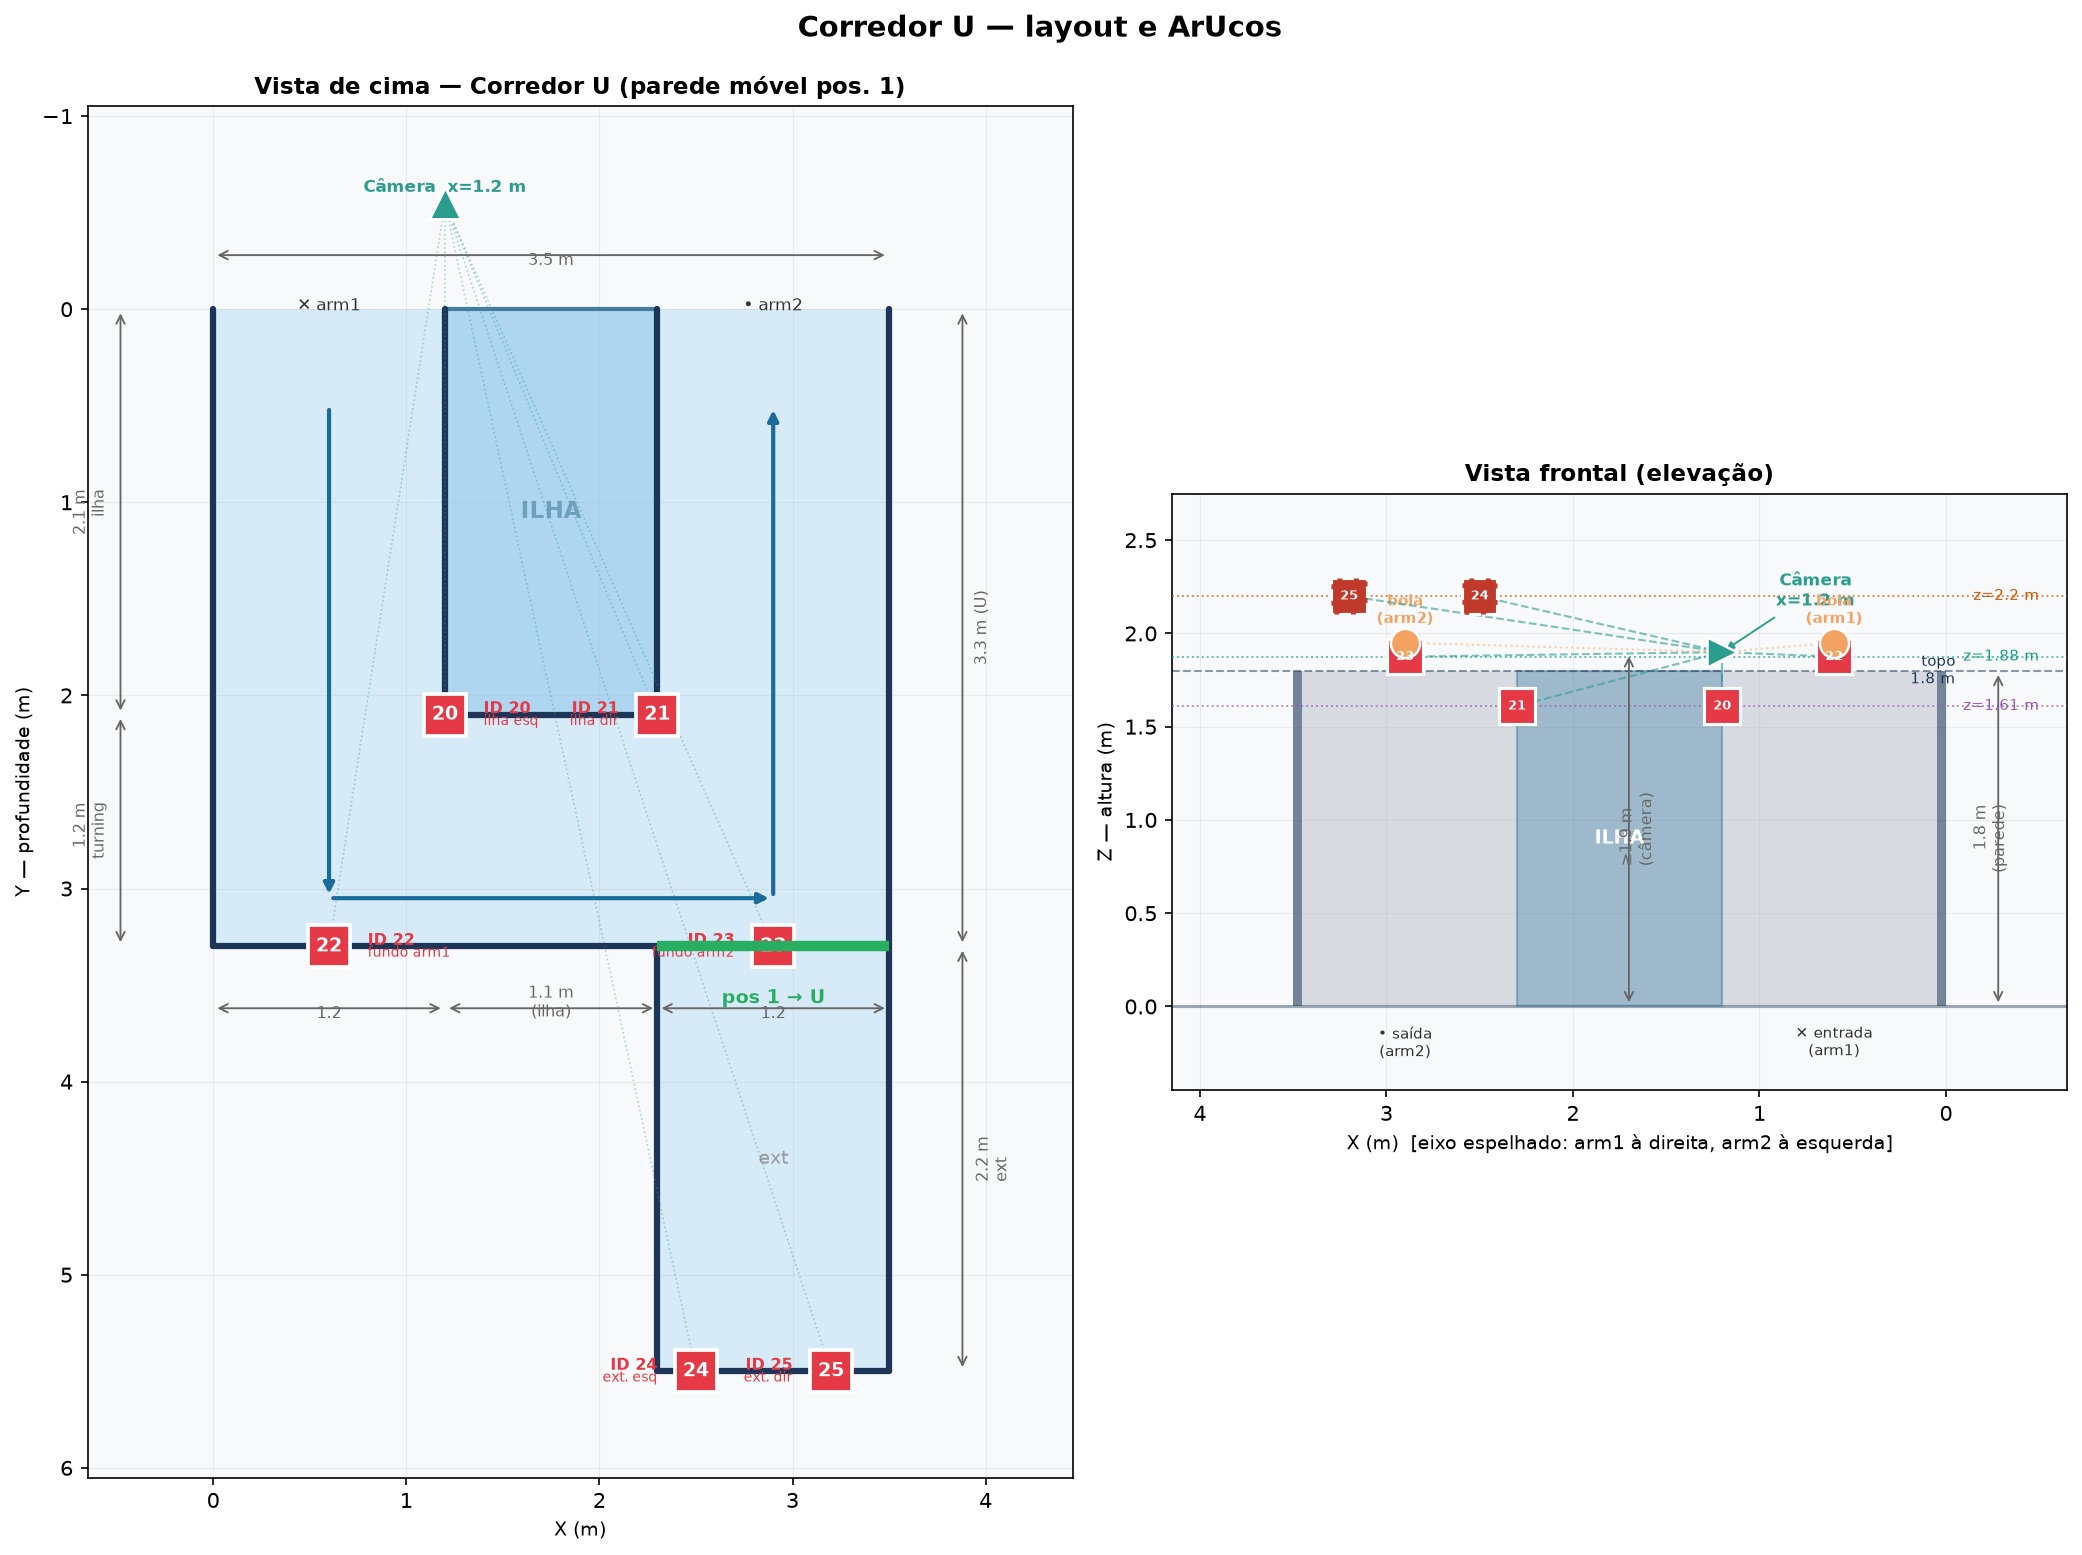
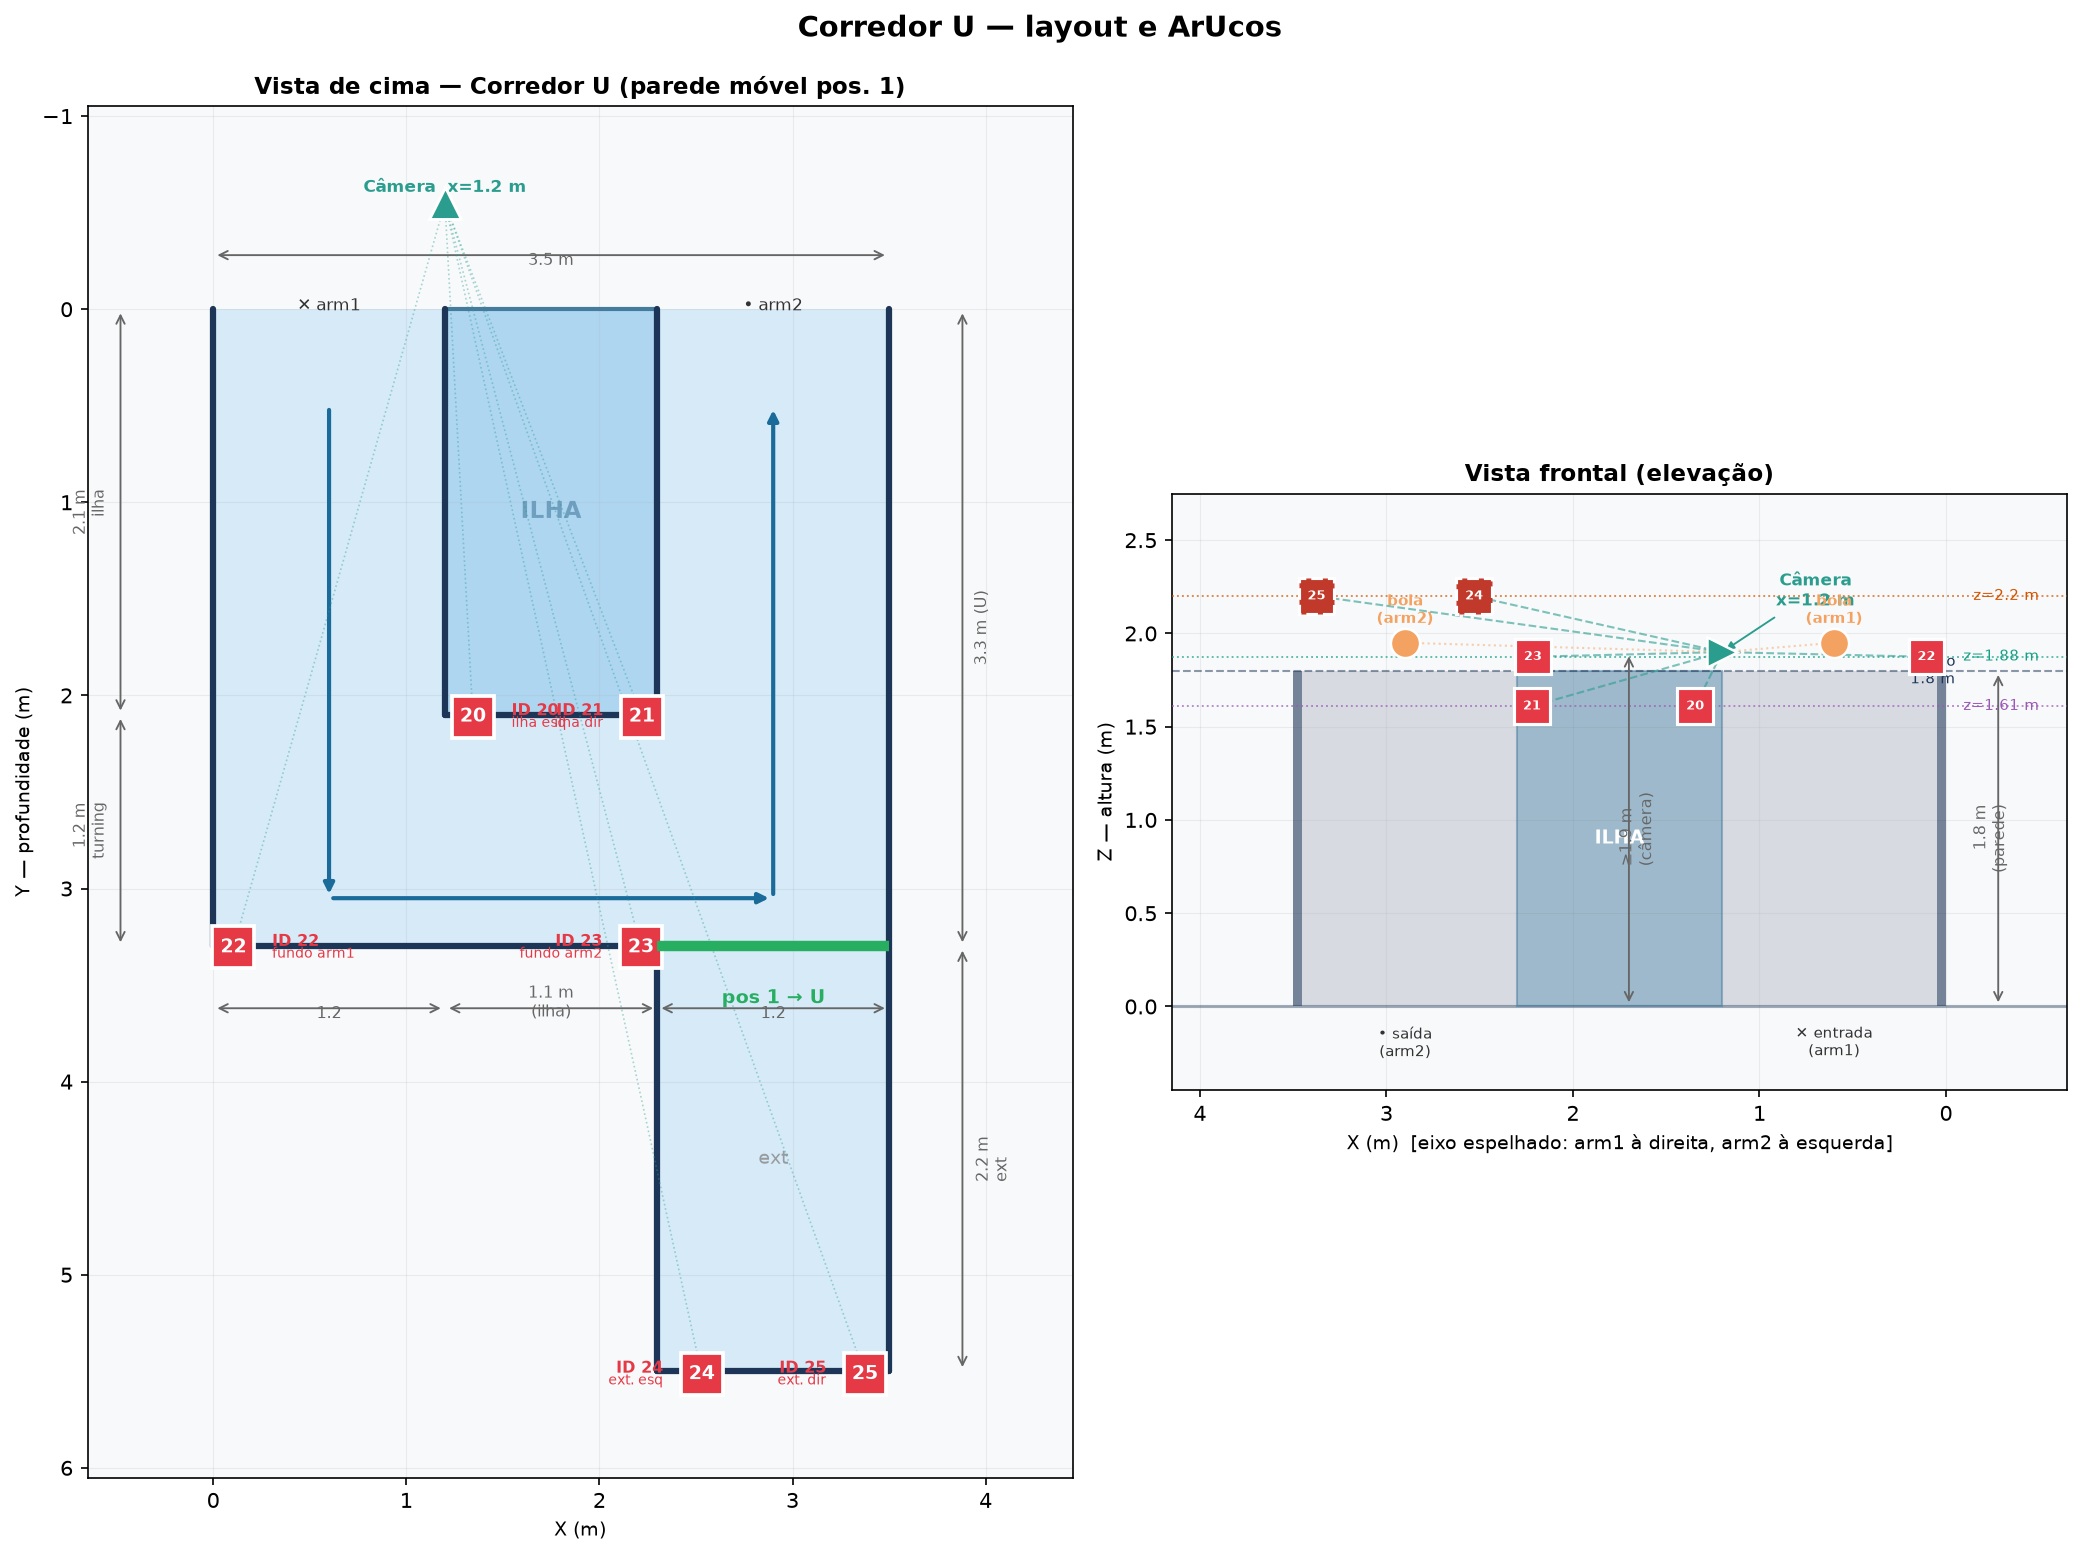
Update actual camera position + fix solvePnP mirror solution
Measured camera position:  x=1.90m, y=-2.30m, z=1.98m
(was planned: x=1.20m, y=-0.55m, z=1.90m)

- corridors.yaml: replace camera_x_m/camera_z_min_m with camera_x_m/camera_y_m/camera_z_m
- test_aruco_pose.py: CAM_EXPECTED updated; rvec_init/tvec_init now computed from
  real camera position so solvePnP converges to correct side (fixes z=-0.12 mirror solution)
- plot_corridor_layout.py: draw_top_view reads camera_y_m from YAML; draw_side_view
  reads camera_z_m with fallback
- Regenerate all 3 layout PNGs with camera at y=-2.30m

diff --git a/tools/test_aruco_pose.py b/tools/test_aruco_pose.py
@@ -39,7 +39,7 @@ OUT_DIR       = Path(__file__).parent.parent / "output"
 DICT_TYPE     = cv2.aruco.DICT_4X4_50
 MIN_MARKERS   = 4          # mínimo para solvePnP
 HISTORY_LEN   = 30         # frames para cálculo de estabilidade
-CAM_EXPECTED  = np.array([1.20, -0.55, 1.90])  # posição esperada (m)
+CAM_EXPECTED  = np.array([1.90, -2.30, 1.98])  # posição medida da câmara (m)
 
 # ── Carrega marcadores do YAML (IDs únicos) ────────────────────────────────
 def load_marker_positions(yaml_path: Path) -> dict[int, np.ndarray]:
@@ -157,6 +157,14 @@ def main():
         cv2.namedWindow(WIN, cv2.WINDOW_NORMAL)
         cv2.resizeWindow(WIN, 960, 540)
         print("[OK] Janela criada — aguarda primeiro frame...")
+
+    # ── Chute inicial: câmara olha em +Y (corredor), +Z = cima ───────────────
+    # R mapeia mundo→câmara: Z_cam=+Y_mundo, Y_cam=-Z_mundo, X_cam=+X_mundo
+    R_init = np.array([[1, 0,  0],
+                       [0, 0, -1],
+                       [0, 1,  0]], dtype=np.float64)
+    rvec_init, _ = cv2.Rodrigues(R_init)
+    tvec_init    = (-R_init @ CAM_EXPECTED.reshape(3, 1)).astype(np.float64)
 
     history: list[np.ndarray] = []
     save_idx     = 0

diff --git a/tools/plot_corridor_layout.py b/tools/plot_corridor_layout.py
@@ -192,7 +192,7 @@ def draw_top_view(ax, c, name):
                     fontsize=6.5, color=MARKER_COLOR, zorder=6)
 
     # ── câmera ──────────────────────────────────────────────
-    cam_y = -0.55
+    cam_y = c.get("camera_y_m", -0.55)
     ax.plot(cam_x, cam_y, marker="^", ms=15, color=CAMERA_COLOR,
             markeredgecolor="white", markeredgewidth=1.4, zorder=5)
     ax.text(cam_x, cam_y - 0.13, f"Câmera  x={cam_x:.2g} m",
@@ -258,7 +258,7 @@ def draw_side_view(ax, c):
     wh     = c["wall_height_m"]
     ms     = c.get("marker_size_m", 0.19)
     cam_x  = c.get("camera_x_m", cw/2)
-    cam_z  = c.get("camera_z_min_m", 1.9)
+    cam_z  = c.get("camera_z_m", c.get("camera_z_min_m", 1.9))
     # z alturas reais medidas (podem variar por marcador)
     unique_z = sorted({m["pos"][2] for m in c["markers"]})
 